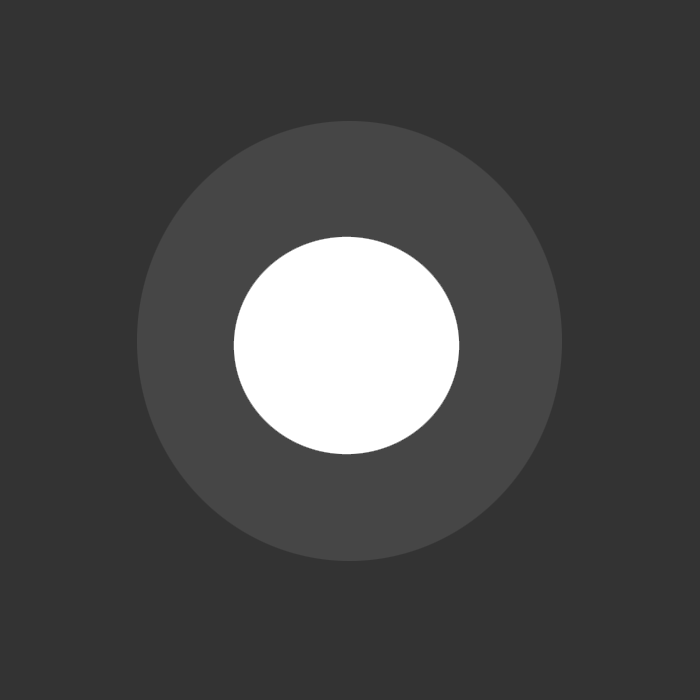
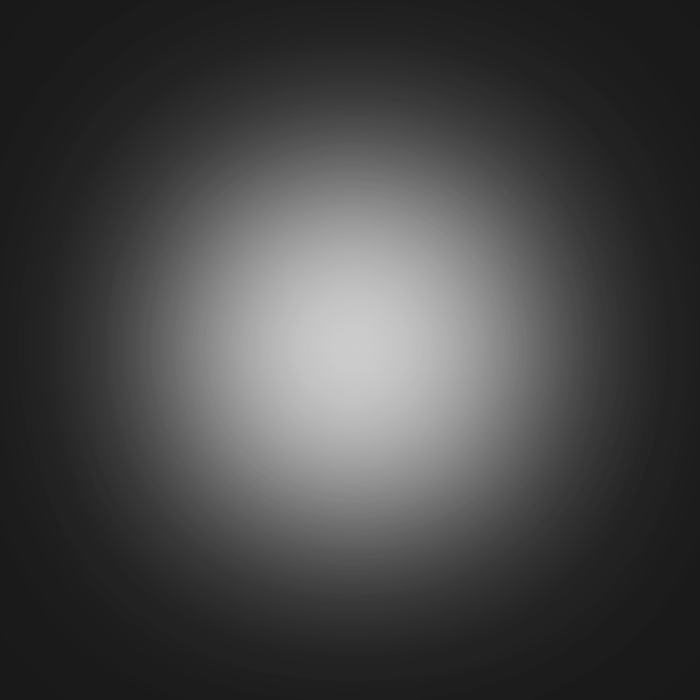
Gradiented Night System
Gradiented Night System for better looking stuff

diff --git a/src/graphics/GraphicsPane.java b/src/graphics/GraphicsPane.java
@@ -79,7 +79,8 @@ public class GraphicsPane extends JPanel {
 		} else {
 			System.out.println("LOADING IMAGE HERE"); //Insert Loading Music
 		}
-		switch(boardState.getLight()){
+		int lightState = boardState.getLight();
+		switch(lightState){
 		case 0: g.drawImage(nightShade, 0, 0, (int) width, (int) height, null); //Night vision
 		break;
 		case 1: g.drawImage(duskShade, 0, 0, (int) width, (int) height, null); //Dusk vision

diff --git a/src/graphics/assets/Objects.java b/src/graphics/assets/Objects.java
@@ -46,7 +46,7 @@ public enum Objects {
 	HEALTH("HealthPotion.png", "HealthPotion.png", "HealthPotion.png", "HealthPotion.png"),
 	SNOWMAN("snowman.png", "snowman.png", "snowman.png", "snowman.png");
 
-	public final Image[] imgs;	// KTC make unmodifiable
+	public final Image[] imgs;
 
 	/**
 	 * Creates the enumeration and gives it the associated image.
